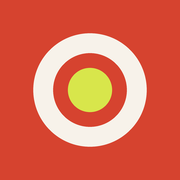
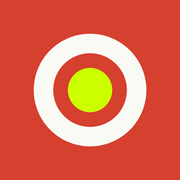
feat(seo): トップにWebSite JSON-LDを追加＋OGP画像刷新＋ファビコン配色をブランドトークンへ統一
1. WebSite JSON-LD（検索結果のサイト名「GitHub」表示の是正）
   JA全域・トップ双方に WebSite ノードが1つも無かったため、Google が
   ホスト名からサイト名を推測していた。index.html / en/index.html の
   </head> 直前へ各1件追加。EN の name/url は既存EN写真家ページの
   isPartOf 内 WebSite と完全一致させ、サイト内で名称が割れないようにした。

2. OGP画像 assets/ogp-default.png を刷新
   素材の og-top.png は右下に photo-coordinates.jp が焼き込まれていたが、
   dig で NXDOMAIN と確認できたためプレースホルダと判断し、テンプレの
   data-edit="url" のみ eyescosmos.com に差し替えて再書き出しした。
   ファイル名を変えないことで、og:image タグを1つも編集せずに実参照
   471ページが一斉更新され、旧 github.io の焼き込みも同時に解消。

3. ファビコン6ファイルを ogp.css の :root トークンへ統一
   #d6402e / #fafaf5 / #ccff00。テンプレ右上の .og__mark はファビコンと
   同一図形で、元々ペアの設計のため。幾何は不変。

監査: origin/main 比で追加23行・削除3行（削除は favicon.svg の色定義のみ）。
トップ2枚の GA/canonical/hreflang/og/twitter/icon/nosnippet/title/description
は全て非減少、増加は ld+json のみ。生成系・正本・sitemap・CNAME は差分0。
check_content_loss / preflight ともに EXIT 0、増分WARN 0。

diff --git a/en/index.html b/en/index.html
@@ -2067,6 +2067,16 @@ body {
 }
 
 </style>
+<script type="application/ld+json">
+{
+  "@context": "https://schema.org",
+  "@type": "WebSite",
+  "name": "Photo Coordinates",
+  "alternateName": "写真の座標",
+  "url": "https://eyescosmos.com/en/",
+  "inLanguage": "en"
+}
+</script>
 </head>
 <body>
 <div class="page">

diff --git a/index.html b/index.html
@@ -2067,6 +2067,16 @@ body {
 }
 
 </style>
+<script type="application/ld+json">
+{
+  "@context": "https://schema.org",
+  "@type": "WebSite",
+  "name": "写真の座標",
+  "alternateName": "Photo Coordinates",
+  "url": "https://eyescosmos.com/",
+  "inLanguage": "ja"
+}
+</script>
 </head>
 <body>
 <div class="page">

diff --git a/docs/importer-run-log.md b/docs/importer-run-log.md
@@ -2033,3 +2033,13 @@ Runbook B（新規追加）どおり importer `--render-ja` + `add_photographer 
 - **検証**：`git diff --stat` は `2 files changed, 8 insertions(+)` のみで削除0・対象外trackedの差分0。全PNG/ICOをPillowで画素実測し、角=`(214,67,47)`・中心/リング=`(247,242,234)`・リング内外の隙間が地色であることを4ファイルで確認。`favicon.ico` の内包サイズは `[(16,16),(32,32),(48,48)]`。**16px実物を16倍拡大して目視確認し、リングと中心点が分離して読めることを確認**（検索結果で効くのがこのサイズのため）。head参照4パスの実在確認OK、`git check-ignore` で6ファイルとも追跡可能を確認、sitemap/robotsの変更なし。`check_content_loss.py` EXIT 0、`preflight.py` EXIT 0（増分WARN 0。既出は0827バッチのstale intentional-replacement 8件と既知の `/colophon` のみ）。generate_*/build_* は一切実行せず、git add / commit / push / stash なし。
 - **反映見込み**：Googleはトップページのheadのみを参照するため、`/` の再クロール後に反映（数日〜数週間）。
 - **wall-time**：（Daisuke記入）
+
+## 2026-08-28 — トップWebSite JSON-LD追加＋OGP画像刷新＋ファビコン配色統一（Opus監督・Codex実装）
+
+- **種別 / 範囲**：other / トップ2枚（`index.html` / `en/index.html`）＋共通OGP画像＋ファビコン6ファイル。素材は Daisuke 提供の `OPG/ogp-export 2/`（`og-top.png` / `og-photographer.png` / `ogp-template.html` / `ogp.css` / README）。**素材HTMLの構造・デザインはサイトへ流用せず、PNG書き出しの版下としてのみ使用**（CLAUDE.md「渡された素材の扱い」準拠）。本文・構造の変更は0。
+- **A. WebSite JSON-LD**：検索結果のサイト名が「GitHub」表示だった原因が、**トップ・JA全域にWebSiteノードが1つも存在しないこと**だと実測で特定（JA写真家ページのJSON-LD `@type` は `Person` のみ、`archive.html` もld+json 0、JA/ENトップともld+json 0）。`</head>` 直前に `WebSite` を各1件追加（各+10行・削除0）。値はJA `name=写真の座標` / `alternateName=Photo Coordinates` / `url=https://eyescosmos.com/` / `inLanguage=ja`、EN `name=Photo Coordinates` / `alternateName=写真の座標` / `url=https://eyescosmos.com/en/` / `inLanguage=en`。**ENの `name` / `url` は既存EN写真家ページの `isPartOf` 内WebSiteノードと完全一致させ、サイト内で名称が割れないようにした**。新規の命名は作っていない。
+- **B. OGP画像**：素材 `og-top.png` は右下に `PHOTO-COORDINATES.JP` が焼き込まれており、READMEの埋め込み例も `https://photo-coordinates.jp/og/top.png` だった。**`dig` で NXDOMAIN（存在しないドメイン）と確認**したためプレースホルダと判断し、`ogp-template.html` の `data-edit="url"`（33行目）だけを `eyescosmos.com` に差し替えてヘッドレスChromeで `#og-top` を1200×630再書き出しし、`assets/ogp-default.png` へ上書き。**ファイル名は変更せず**、`.claude/worktrees/` の複製1368件を除いた**実参照471ページ**（en 388 / movements 35 / countries 33 / eras 11 / ルート4）が**HTMLのog:imageタグを1つも変更せずに一斉更新**され、旧 `eyescosmos.github.io` 焼き込み問題も同時に解消。フォント欠落検知のため**無改変レンダを素材と画素比較**（完全一致94.71% / 平均絶対誤差1.23/255）してGoogle Fonts（Noto Sans JP・JetBrains Mono）の読込を確認してから本番用を出力。URLテキスト幅は新143px（EYESCOSMOS.COM・14字）対 素材208px（20字）で字数比と整合し、旧URL残存0。
+- **C. ファビコン配色統一**：素材 `ogp.css` の `:root` にブランドトークン（`--verm:#d6402e` / `--cream:#fafaf5` / `--lime:#ccff00`）が定義されており、同日先行commit `64a8242ed` のファビコン（`#D6432F` / `#F7F2EA` / `#D8E64B`）と不一致だった。**テンプレ右上の `.og__mark` がファビコンと同一図形（白リング＋ライム中心）＝元々ペアの設計**のため、Daisuke指示で3値ともトークン値へ統一し6ファイルを再生成。幾何は不変。
+- **監査（消失・巻き戻り・巻き込み）**：`origin/main` 基準で差分9ファイル・**追加23行 / 削除3行**、削除3行は `favicon.svg` の色定義のみで全文列挙して確認。トップ2枚をorigin/mainと要素単位で突合し、GA `G-2VRTV8BZEJ` 2、canonical 1、hreflang 3、`og:` 10、`twitter:` 4、og:image 1、`rel="icon"` 3、apple-touch-icon 1、`data-nosnippet` 4、title 1、description 1が**全て非減少**、増加はld+json 0→1のみ。div 240/240・section 4/4・head/body/style 各1/1で開閉バランス不変、scriptは3→4（JSON-LD分）で開閉一致。`photographers/` `en/photographers/` `countries/` `en/countries/` `eras/` `movements/` `data/` `scripts/` `styles/` `new-design/` `card-data.json` `cards-archive.html` `archive.html` `sitemap*.xml` `robots.txt` `CNAME` は**差分0**。未追跡206件（backup/spec）は作業前と同一で1件もstageせず。
+- **検証**：`check_content_loss.py` EXIT 0、`preflight.py` EXIT 0（増分WARN 0）、`git diff --check` EXIT 0。ファビコン4PNGは角`(214,64,46)`/中心`(204,255,0)`・alpha全面255、`favicon.ico` 内包`[(16,16),(32,32),(48,48)]`。OGPは1200×630 RGBでHTML宣言の`og:image:width/height`と一致。generate_* / build_* は一切未実行。
+- **wall-time**：（Daisuke記入）
